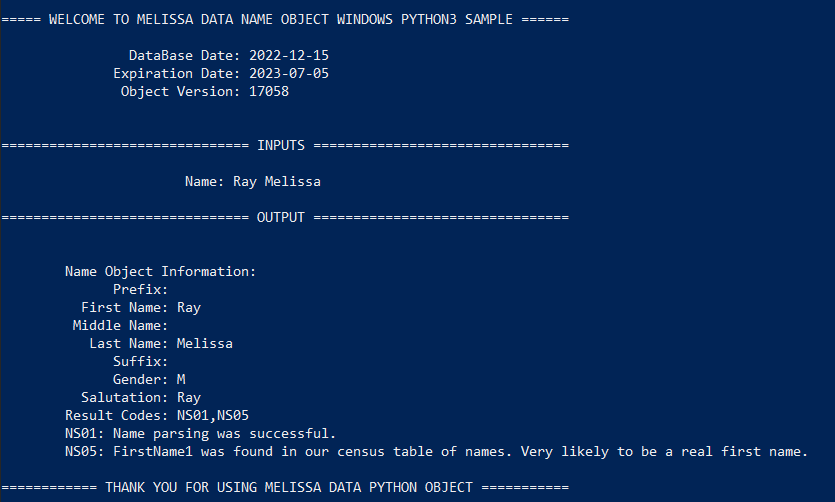
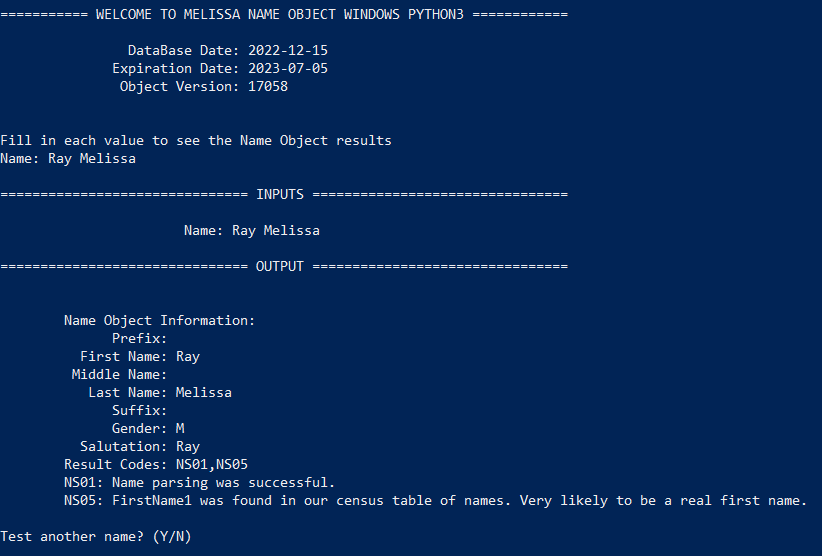
Commit Python3 code for Name Object with release notes

diff --git a/MelissaNameObjectWindowsPython3/MelissaNameObjectWindowsPython3.py b/MelissaNameObjectWindowsPython3/MelissaNameObjectWindowsPython3.py
@@ -31,7 +31,7 @@ class NameObject:
         print(f"              Expiration Date: {self.md_name_obj.GetLicenseExpirationDate()}")
       
         """
-        This number should match with file properties of the Melissa Data Object binary file.
+        This number should match with file properties of the Melissa Object binary file.
         If TEST appears with the build number, there may be a license key issue.
         """
         print(f"               Object Version: {self.md_name_obj.GetBuildNumber()}\n")
@@ -47,8 +47,8 @@ class NameObject:
         result_codes = self.md_name_obj.GetResults()
 
         """ 
-        ResultsCodes explain any issues name object has with the object.
-        List of result codes for Name object
+        ResultsCodes explain any issues Name Object has with the object.
+        List of result codes for Name Object
         https://wiki.melissadata.com/?title=Result_Code_Details#Name_Object
         """
 
@@ -76,7 +76,7 @@ def parse_arguments():
     return (license, test_name, data_path)
 
 def run_as_console(license, test_name, data_path):
-    print("\n\n===== WELCOME TO MELISSA DATA NAME OBJECT WINDOWS PYTHON3 SAMPLE ======\n")
+    print("\n\n=========== WELCOME TO MELISSA NAME OBJECT WINDOWS PYTHON3 ============\n")
 
     name_object = NameObject(license, data_path)
 
@@ -140,7 +140,7 @@ def run_as_console(license, test_name, data_path):
             
               print("Invalid Response, please respond 'Y' or 'N'")
 
-    print("\n============ THANK YOU FOR USING MELISSA DATA PYTHON OBJECT ===========\n")
+    print("\n=============== THANK YOU FOR USING MELISSA PYTHON OBJECT =============\n")
     
 
 

diff --git a/MelissaNameObjectWindowsPython3/mdName_pythoncode.py b/MelissaNameObjectWindowsPython3/mdName_pythoncode.py
@@ -8,9 +8,9 @@ dir = os.getcwd()
 
 
 if (os.name == 'nt'):
-  lib = ctypes.CDLL(f'{dir}/MelissaDataNameObjectWindowsPython3Sample/mdName.dll')
+  lib = ctypes.CDLL(f'{dir}/MelissaNameObjectWindowsPython3/mdName.dll')
 else:
-  lib = ctypes.CDLL('libmdPhone.so')
+  lib = ctypes.CDLL(f'{dir}/MelissaNameObjectLinuxPython3/libmdName.so')
 
 lib.mdNameCreate.argtypes = []
 lib.mdNameCreate.restype = c_void_p

diff --git a/README.md b/README.md
@@ -1,8 +1,12 @@
-# Melissa Data Name Object Windows Python3 Sample
+# Melissa - Name Object Windows Python3
 
 ## Purpose
 
-This is an sample of the Melissa Data Name Object using Python3
+This code showcases the Melissa Name Object using Python3
+
+Please feel free to copy or embed this code to your own project. Happy coding!
+
+For the latest Melissa Name Object release notes, please visit: https://releasenotes.melissa.com/on-premise-api/name-object/
 
 The console will ask the user for:
 
@@ -29,7 +33,7 @@ And return
 
 #### mdName.dll
 
-This is the c++ code of the Melissa Data Object.
+This is the c++ code of the Melissa Object.
 
 #### Data File(s)
 - mdName.cfg
@@ -42,13 +46,28 @@ This project is compatible with Python3
 
 #### Install the Python3
 Before starting, make sure that Python3 has been correctly installed on your machine and your environment paths are configured. 
+
+You can download Python here: 
+https://www.python.org/downloads/
+
+To set up your Path to correctly to use the python3 command, execute the following steps:
+1) Run Powershell as an administrator 
+2) Execute the command: 
+`New-Item -ItemType SymbolicLink -Path "Link" -Target "Target"`
+
+    where "Target" is the path to py.exe (by default this should be "C:\Windows\py.exe")\
+    and "Link" is the path to py.exe, but "py.exe" is replaced with "python3.exe"\
+    For Example:\
+    `New-Item -ItemType SymbolicLink -Path "C:\Windows\python3.exe" -Target "C:\Windows\py.exe"`
+
 If you are unsure, you can check by opening a command prompt window and typing the following:
 `python3 --version`
 
- ![alt text](/screenshots/python_version.PNG)
+![alt text](/screenshots/python_version.PNG)
 
 If you see the version number then you have installed Python3 and set up your environment paths correctly!
 
+----------------------------------------
 
 #### Set up Powershell settings
 
@@ -82,41 +101,41 @@ Melissa Updater is a CLI application allowing the user to update their Melissa a
 	- It will handle all of the data download/path and dll(s) for you. 
 2.  If you already have the latest DQS Release (ZIP), you can find the data file(s) and dll(s) in there
 	- Use the location of where you copied/installed the data and update the "$DataPath" variable in the powershell script.
-	- Copy all the dll(s) mentioned above into the `MelissaDataNameObjectWindowsPython3Sample` project folder.
+	- Copy all the dll(s) mentioned above into the `MelissaNameObjectWindowsPython3` project folder.
 	
 ----------------------------------------
 
 ## Run Powershell Script
 Parameters:
- - -name: a test name
+- -name: a test name
  	
   This is convenient when you want to get results for a specific name in one run instead of testing multiple names in interactive mode.  
 
-- -license (optional): a license string to test the name object
+- -license (optional): a license string to test the Name Object
 - -quiet (optional): add to the command if you do not want to get any console output from the Melissa Updater
 
 When you have modified the script to match your data location, let's run the script. There are two modes:
 - Interactive 
 
-	The script will prompt the user for an name, then use the provided name to test Name object. For example:
+	The script will prompt the user for an name, then use the provided name to test Name Object. For example:
 	```
-	$ .\MelissaDataNameObjectWindowsPython3Sample.ps1
+	$ .\MelissaNameObjectWindowsPython3.ps1
 	```
     For quiet mode:
     ```
-    $ .\MelissaDataNameObjectWindowsPython3Sample.ps1 -quiet
+    $ .\MelissaNameObjectWindowsPython3.ps1 -quiet
     ```
 - Command Line 
 
-	You can pass a name in ```-name``` parameter and a license string in ```-license``` parameter to test Name object. For example:
+	You can pass a name in ```-name``` parameter and a license string in ```-license``` parameter to test Name Object. For example:
 	```
-    $ .\MelissaDataNameObjectWindowsPython3Sample.ps1 -name "Ray Melissa" 
-    $ .\MelissaDataNameObjectWindowsPython3Sample.ps1 -name "Ray Melissa" -license "<your_license_string>"
+    $ .\MelissaNameObjectWindowsPython3.ps1 -name "Ray Melissa" 
+    $ .\MelissaNameObjectWindowsPython3.ps1 -name "Ray Melissa" -license "<your_license_string>"
     ```
 	For quiet mode:
     ```
-    $ .\MelissaDataNameObjectWindowsPython3Sample.ps1 -name "Ray Melissa" -quiet
-    $ .\MelissaDataNameObjectWindowsPython3Sample.ps1 -name "Ray Melissa" -license "<your_license_string>" -quiet
+    $ .\MelissaNameObjectWindowsPython3.ps1 -name "Ray Melissa" -quiet
+    $ .\MelissaNameObjectWindowsPython3.ps1 -name "Ray Melissa" -license "<your_license_string>" -quiet
     ```
 This is the expected output from a successful setup for interactive mode:
 
@@ -125,7 +144,7 @@ This is the expected output from a successful setup for interactive mode:
     
 ## Troubleshooting
 
-Troubleshooting for errors found while running your sample program.
+Troubleshooting for errors found while running your program.
 
 ### Errors:
 
@@ -140,7 +159,7 @@ Troubleshooting for errors found while running your sample program.
 ## Contact Us
 
 For free technical support, please call us at 800-MELISSA ext. 4
-(800-635-4772 ext. 4) or email us at tech@MelissaData.com.
+(800-635-4772 ext. 4) or email us at tech@melissa.com.
 
-To purchase this product, contact Melissa Data sales department at
+To purchase this product, contact Melissa sales department at
 800-MELISSA ext. 3 (800-635-4772 ext. 3).

diff --git a/LICENSE.md b/LICENSE.md
@@ -1,0 +1,21 @@
+MIT License
+
+Copyright (c) Melissa Data Corporation
+
+Permission is hereby granted, free of charge, to any person obtaining a copy
+of this software and associated documentation files (the "Software"), to deal
+in the Software without restriction, including without limitation the rights
+to use, copy, modify, merge, publish, distribute, sublicense, and/or sell
+copies of the Software, and to permit persons to whom the Software is
+furnished to do so, subject to the following conditions:
+
+The above copyright notice and this permission notice shall be included in all
+copies or substantial portions of the Software.
+
+THE SOFTWARE IS PROVIDED "AS IS", WITHOUT WARRANTY OF ANY KIND, EXPRESS OR
+IMPLIED, INCLUDING BUT NOT LIMITED TO THE WARRANTIES OF MERCHANTABILITY,
+FITNESS FOR A PARTICULAR PURPOSE AND NONINFRINGEMENT. IN NO EVENT SHALL THE
+AUTHORS OR COPYRIGHT HOLDERS BE LIABLE FOR ANY CLAIM, DAMAGES OR OTHER
+LIABILITY, WHETHER IN AN ACTION OF CONTRACT, TORT OR OTHERWISE, ARISING FROM,
+OUT OF OR IN CONNECTION WITH THE SOFTWARE OR THE USE OR OTHER DEALINGS IN THE
+SOFTWARE.
